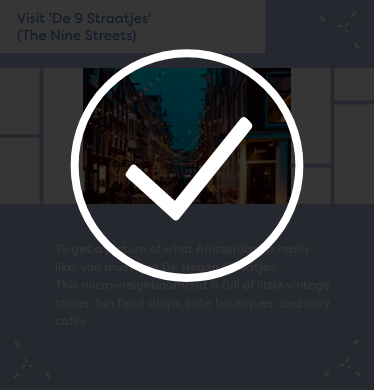
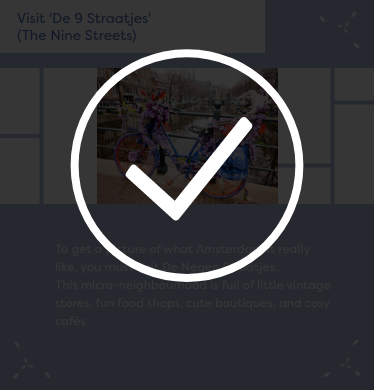
CSS dingen

Changed region(s): [[0.2059, 0.1538, 0.7941, 0.5231]]

diff --git a/assets/css/styles.css b/assets/css/styles.css
@@ -36,7 +36,7 @@ h2 {
 em {
   font-style: normal;
 }
-h3 {
+/* h3 {
   font-family: "FilsonPro", sans-serif;
   font-size: 1em;
   color: #000000;
@@ -57,7 +57,7 @@ h5 {
   color: #fff;
   margin-left: 100px;
   margin-right: 100px;
-}
+} */
 /* HEADER */
 
 nav {
@@ -74,21 +74,53 @@ main .home {
   background-image: url("../images/backgroundimghome.png");
   height: 60vh;
 }
-main .home h3 {
+/* witte text */
+main section h3 {
   font-family: "FilsonPro", sans-serif;
-  font-size: 1em;
+  font-size: 1.25em;
   color: #fff;
-  margin-left: 100px;
-  margin-right: 100px;
+  text-align: center;
+  padding-top: 10px;
 }
-main .home a {
-  font-family: "FilsonPro", sans-serif;
-  font-size: 0.75em;
-  color: #5474b6;
+/* acceptedicon naast tekst */
+main section h3 > img {
+  height: 5vh;
 }
-main .home a img {
+/* button */
+main section button {
   background-color: #fff;
+  padding: 15px;
+  color: #5474b6;
+  border-radius: 100px;
+  display: block;
+  margin-left: auto;
+  margin-right: auto;
+  margin-top: 275px;
 }
+/* text in button */
+main section a {
+  font-family: "FilsonPro", sans-serif;
+  font-size: 1.5em;
+  color: #5474b6;
+  text-decoration: none;
+}
+/* shuffleicon */
+main section a img {
+  display: block;
+  margin-left: auto;
+  margin-right: auto;
+  margin-top: 0;
+  height: 3vh;
+}
+/* inhoudfoto in challenge card */
+main .challenge > img {
+  display: block;
+  margin-left: auto;
+  margin-right: auto;
+  /* naar benedennn */
+  border-radius: 10px;
+}
+
 /* achallengeaday */
 main .acad {
   background-image: url("../images/backgroundimgacad.png");
@@ -99,46 +131,39 @@ main .challenge {
   background-image: url("../images/backgroundimgchallenge.png");
   height: 60vh;
 }
-/* accepted */
-main .accepted {
-  background-image: url("../images/backgroundimgaccepted.png");
-  height: 60vh;
+main .challenge h3 {
+  font-family: "FilsonPro", sans-serif;
+  font-size: 1em;
+  color: #5474b6;
+  margin-left: 80px;
+  margin-right: 100px;
 }
-/* accomplished */
-main .accomplished {
-  background-image: url("../images/accomplished1.png");
-  height: 60vh;
+p {
+  font-family: "FilsonPro", sans-serif;
+  font-size: 0.7em;
+  color: #000000;
+  margin-left: 100px;
+  margin-right: 100px;
 }
-main .building {
-  background-image: url("../images/building.png");
-  height: 60vh;
-}
-
 /* inhoud foto */
-main section img {
+main section > img {
   margin-top: 30px;
   margin-left: 110px;
   height: 15vh;
 }
-/* button */
-main section a {
-  background-color: #fff;
-  font-family: "FilsonPro", sans-serif;
-  font-size: 0.75em;
-  color: #5474b6;
-}
-main section a img {
-  background-color: #ffffff;
-  height: 3vh;
-}
+
 /* rest ongeprogrammeerder foto's */
 main img {
   height: 100%;
 }
 /* accepted */
+main .accepted {
+  background-image: url("../images/backgroundimgaccepted.png");
+}
+
 main .accepted h3 {
   margin-left: 10px;
-  margin-right: 200px;
+  margin-right: 150px;
   /* margin-top: px; */
   color: #5474b6;
 }
@@ -153,9 +178,29 @@ main .accepted img {
   display: block;
   margin-left: auto;
   margin-right: auto;
-  margin-bottom: 35px;
+  margin-bottom: 20px;
 }
-
+/* connections snap niks vn */
+main .connections {
+  background-image: url("../images/backgroundimgblanc.png");
+}
+main .connections ul {
+  display: flex;
+  list-style-type: none;
+}
+main .connections ul img {
+  height: 5vh;
+  border-radius: 100px;
+}
+main .connections h3 {
+  font-family: "FilsonPro", sans-serif;
+  font-size: 1.25em;
+  color: #5474b6;
+  background-color: #fff;
+  padding: 10px;
+  border-radius: 100px;
+  padding-top: 10px;
+}
 /* mainfooter */
 main footer {
   display: flex;

diff --git a/challenge2.html b/challenge2.html
@@ -23,17 +23,21 @@
       <h2>~ the best way to get to know Amsterdam is to experience it ~</h2>
       <section class="challenge">
         <!-- nemo -->
-        <img src="assets/images/vbfoto9.png" alt="Rooftop of NEMO" />
+        <img src="assets/images/nemo.png" alt="Rooftop of NEMO" />
         <h3>Climb on the roof at NEMO</h3>
         <p>
           NEMO is a science museum. It has a unique architecture. The cool thing
           about it is that the rooftop of the museum is free to visit. You can
           have a drink and enjoy the sightseeing of Amsterdam
         </p>
+
         <a href="challenge1.html"
-          >Shuffle New Challenge
-          <img src="assets/images/icons/all/shufflecolor.png" alt="shuffleicon"
-        /></a>
+          ><button>
+            Shuffle New Challenge<img
+              src="assets/images/icons/all/shufflecolor.png"
+              alt="shuffleicon"
+            /></button
+        ></a>
       </section>
 
       <footer>

diff --git a/challenge1.html b/challenge1.html
@@ -24,7 +24,7 @@
       <section class="challenge">
         <!-- 9straatjes -->
         <img
-          src="assets/images/vbfoto9.png"
+          src="assets/images/9straatjes.png"
           alt="The Nine Streets of Amsterdam"
         />
         <h3>Visit 'De 9 Straatjes' (The Nine Streets)</h3>
@@ -33,13 +33,14 @@
           Negen Straatjes. This micro-neighbourhood is full of little vintage
           stores, fun food shops, cute boutiques, and cosy cafés
         </p>
-        <!-- wordt button -->
 
         <a href="challenge2.html"
-          >Shuffle New Challenge
-          <img src="assets/images/icons/all/shufflecolor.png" alt="shuffleicon"
-        /></a>
-        <!-- img en shuffle challenge cards tekst -->
+          ><button>
+            Shuffle New Challenge<img
+              src="assets/images/icons/all/shufflecolor.png"
+              alt="shuffleicon"
+            /></button
+        ></a>
       </section>
 
       <footer>

diff --git a/achallengeaday.html b/achallengeaday.html
@@ -23,13 +23,23 @@
       <h2>~ the best way to get to know Amsterdam is to experience it ~</h2>
       <section class="acad">
         <!-- volgende -->
-        <h5>Accept a fun Challenge</h5>
-        <img src="assets/images/icons/all/acceptklein.png" alt="accept icon" />
+        <h3>
+          Accept a fun Challenge
+          <img
+            src="assets/images/icons/all/acceptklein.png"
+            alt="accept icon"
+          />
+        </h3>
+
         <!-- huidige pagina foto -->
+
         <a href="challenge1.html"
-          >Shuffle Challenge Cards
-          <img src="assets/images/icons/all/shufflecolor.png" alt="shuffleicon"
-        /></a>
+          ><button>
+            Shuffle Challenge Cards<img
+              src="assets/images/icons/all/shufflecolor.png"
+              alt="shuffleicon"
+            /></button
+        ></a>
       </section>
 
       <footer>

diff --git a/connections.html b/connections.html
@@ -22,10 +22,30 @@
       <h1>CONNECTIONS</h1>
       <h2>~ connect, inspire, support ~</h2>
 
-      <img
+      <!-- <img
         src="assets/images/connections.png"
         alt="list of people you connected to"
       />
+       -->
+      <section class="connections">
+        <ul>
+          <li>
+            <img src="assets/images/tomoko.png" alt="profile picture Tomoko" />
+            <h3>Tomoko</h3>
+          </li>
+          <li>
+            <img
+              src="assets/images/rosanna.png"
+              alt="profile picture Rosanna"
+            />
+            <h3>Rosanna</h3>
+          </li>
+          <li>
+            <img src="assets/images/anna.png" alt="profile picture Anna" />
+            <h3>Anna</h3>
+          </li>
+        </ul>
+      </section>
 
       <footer>
         <a href="javascript:history.back()"

diff --git a/index.html b/index.html
@@ -23,11 +23,17 @@
       <h2><em>INTERNATIONAL STUDENT GUIDE AMSTERDAM</em></h2>
       <section class="home">
         <!-- volgende pagina -->
-        <h3>Get to know Amsterdam Through 'A Challenge A Day'</h3>
-        <a href="achallengeaday.html">
-          Challenge Yourself
-          <img src="assets/images/icons/all/shufflecolor.png" alt="shuffleicon"
-        /></a>
+        <h3>Get to know Amsterdam</h3>
+        <h3>Through 'A Challenge A Day'</h3>
+        <!-- button -->
+        <a href="achallengeaday.html"
+          ><button>
+            Challenge Yourself
+            <img
+              src="assets/images/icons/all/shufflecolor.png"
+              alt="shuffle icon"
+            /></button
+        ></a>
       </section>
 
       <footer>

diff --git a/accepted2.html b/accepted2.html
@@ -4,7 +4,7 @@
     <meta charset="UTF-8" />
     <meta http-equiv="X-UA-Compatible" content="IE=edge" />
     <meta name="viewport" content="width=device-width, initial-scale=1.0" />
-    <title>Accepted4</title>
+    <title>Accepted2</title>
     <link rel="stylesheet" href="assets/css/styles.css" />
   </head>
   <body>
@@ -24,7 +24,7 @@
       <section class="accepted">
         <!-- huidige accepted -->
         <h3>Climb on the roof at NEMO</h3>
-        <img src="assets/images/vbfoto9.png" alt="Rooftop of NEMO" />
+        <img src="assets/images/nemo.png" alt="Rooftop of NEMO" />
 
         <p>
           NEMO is a science museum. It has a unique architecture. The cool thing

diff --git a/accepted1.html b/accepted1.html
@@ -25,15 +25,15 @@
         <!-- huidige accepted -->
         <h3>Visit 'De 9 Straatjes' (The Nine Streets)</h3>
         <img
-          src="assets/images/vbfoto9.png"
+          src="assets/images/9straatjes.png"
           alt="The Nine Streets of Amsterdam"
         />
-       
+
         <p>
           To get a picture of what Amsterdam is really like, you must visit De
           Negen Straatjes. This micro-neighbourhood is full of little vintage
           stores, fun food shops, cute boutiques, and cosy cafés
-        </p></a>
+        </p>
       </section>
 
       <footer>
